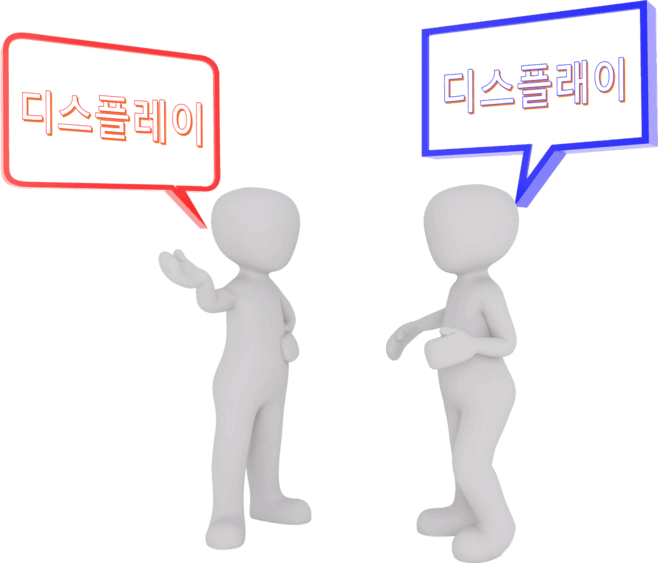
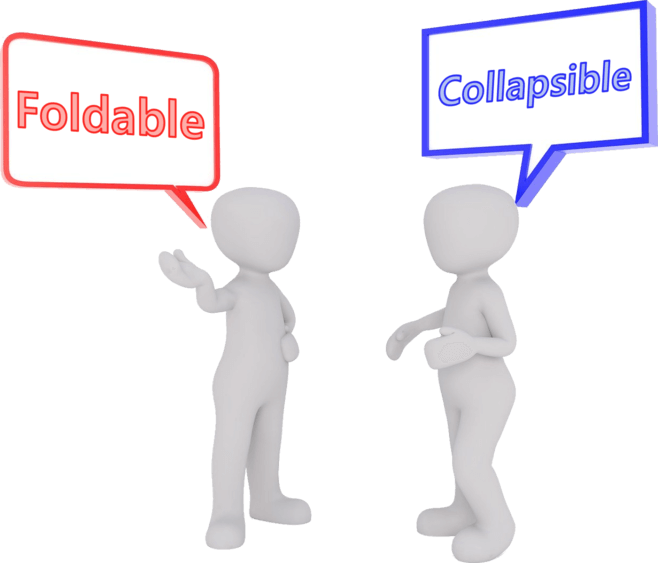
.

Changed region(s): [[0.0, 0.151, 0.3343, 0.2718], [0.6687, 0.0906, 0.9726, 0.2114]]

diff --git a/index.html b/index.html
@@ -221,8 +221,8 @@
           <h2 class="py-3">‘‘Let’s find hidden patents.’’</h2>
           <div class="px-2">
             <p>There are many different terms used in each patent document.</p>
-            <p><b>'flexible'</b> can <ug>be expressed as <b>'foldable'</b></ug> in some documents and <ug><b>'bendable'</b></ug> in some documents.</p>
-            <p>Please, Compare your search results of <ug>"<b>flexible</b> display"</ug> and <ug>"<b>foldable</b> display"</ug> from Google Patents.</p>
+            <p><b>'foldable'</b> can <ug>be expressed as <b>'collapsible'</b></ug> in some documents.</p>
+            <p>Please, Compare your search results of <ug>"<b>foldable</b> display"</ug> and <ug>"<b>collapsible</b> display"</ug> from Google Patents.</p>
             <p>Perhaps <b>the search results are different.</b> So <ug>You have to link synonyms</ug> with the OR operator <ug>and synonym sets</ug> with the AND operator.</p>
           </div>
         </div>
